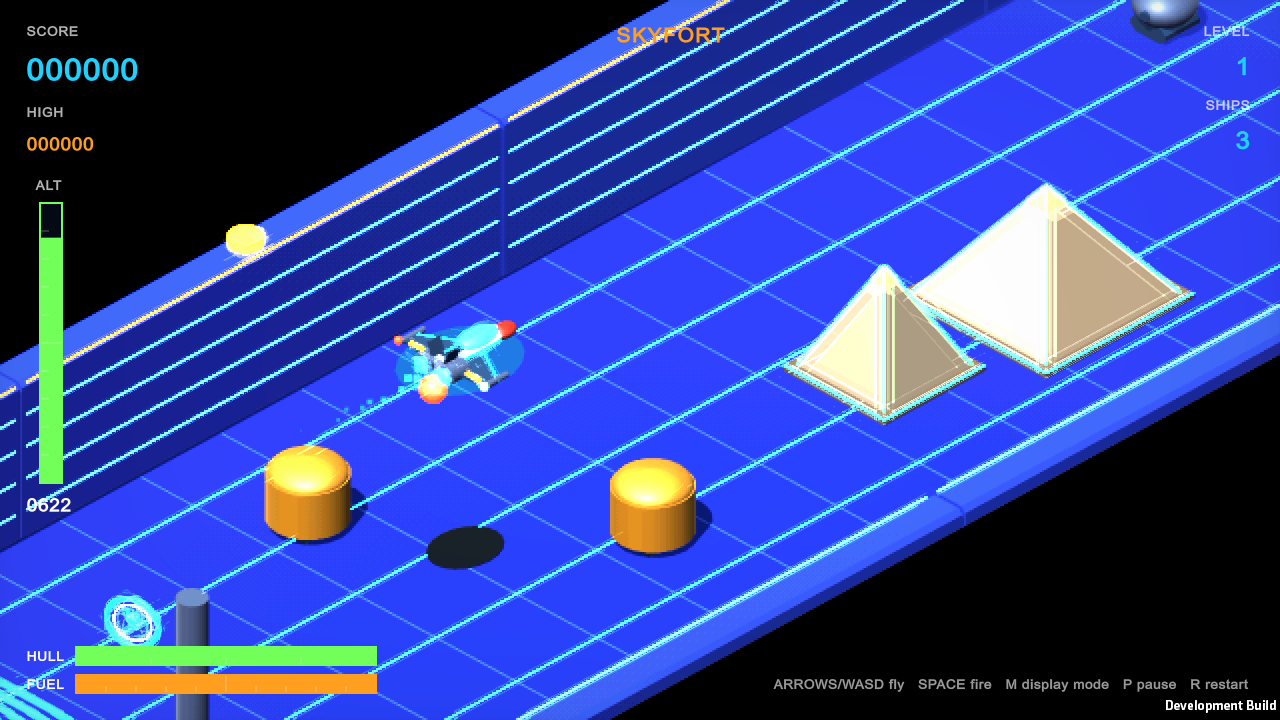
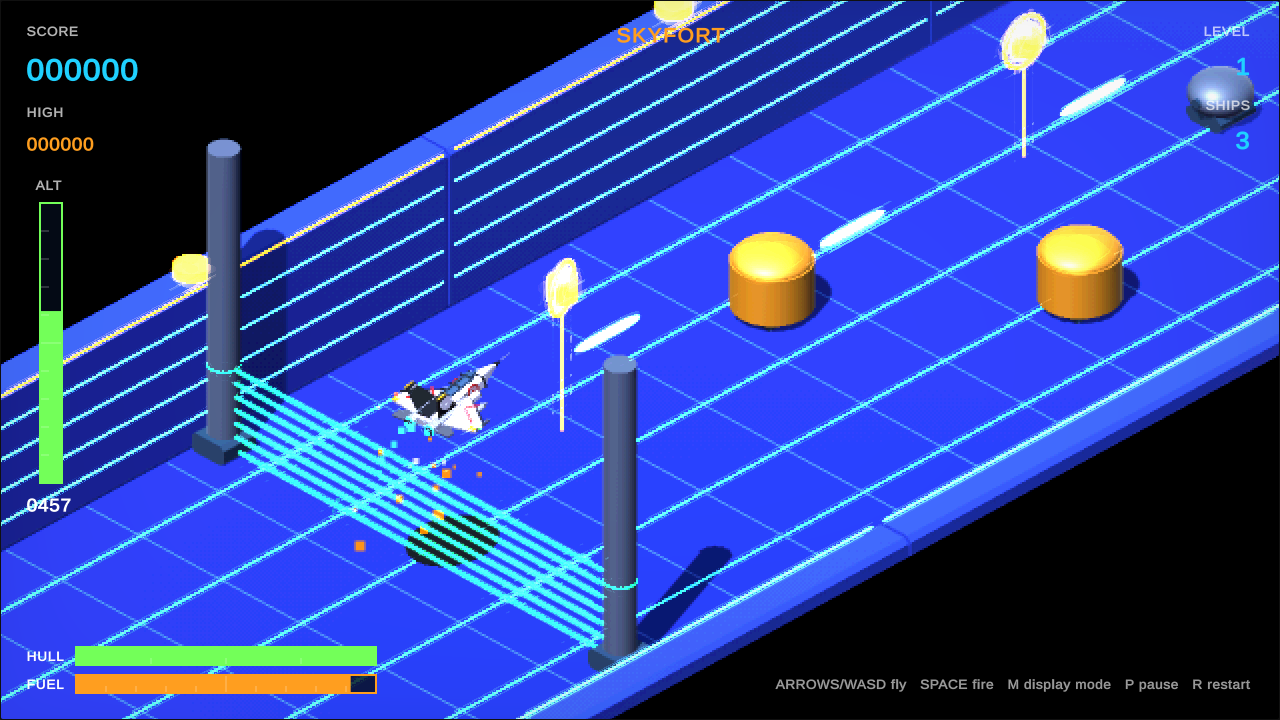
README update

diff --git a/README.md b/README.md
@@ -1,6 +1,6 @@
 # Skyfort Strike — Unity 6 Feature Showcase
 
-![Skyfort Strike: the neon-trimmed fighter over the blue Skyfort deck, with pyramids and fuel tanks ahead](Screenshots/skyfort-16bit.png)
+![Skyfort Strike: the white fighter over the blue Skyfort deck, with turrets, fuel tanks and a power-up with its height marker](Screenshots/gameplay.png)
 
 **Play it in your browser:** https://jcallinan.github.io/Unity6VideoGames/
 
@@ -18,9 +18,15 @@ There are seven levels, each with its own look and obstacle mix. After the seven
 | 6 | **Brick Bulwark**: grey brick ramparts on an electric-cyan floor | Brick walls, keeps and bastions | Scrapyard Orbit |
 | 7 | **Refinery**: an industrial plain of banded fuel tanks | Fuel tanks, stacks, castle walls, force fields | Asteroid Belt |
 
-| Skyfort | Dune Ruins | Ice Citadel |
+Every theme, as seen in the title-screen demo reel:
+
+| 1. Skyfort | 2. Dune Ruins | 3. Ice Citadel | 4. Violet Bastion |
+|---|---|---|---|
+| ![Skyfort: blue deck with cyan neon grid and blue pyramids](Screenshots/theme-skyfort.png) | ![Dune Ruins: a sandstone deck under a burning sky](Screenshots/theme-dune-ruins.png) | ![Ice Citadel: pale ice spires on a frozen plain](Screenshots/theme-ice-citadel.png) | ![Violet Bastion: a violet deck with orange crystal pyramids](Screenshots/theme-violet-bastion.png) |
+
+| 5. Azure Causeway | 6. Brick Bulwark | 7. Refinery |
 |---|---|---|
-| ![Level 1, Skyfort: blue deck with cyan neon grid, pyramids with green neon edges](Screenshots/skyfort-16bit.png) | ![Level 2, Dune Ruins: sandstone deck with cyan neon lanes and glowing pyramids](Screenshots/dune-ruins-16bit.png) | ![Level 3, Ice Citadel: icy deck with crystal spires traced in cyan neon](Screenshots/ice-citadel-16bit.png) |
+| ![Azure Causeway: a royal-blue road lined with golden pillars](Screenshots/theme-azure-causeway.png) | ![Brick Bulwark: grey brick walls on an electric-cyan floor](Screenshots/theme-brick-bulwark.png) | ![Refinery: banded fuel tanks on an industrial blue plain](Screenshots/theme-refinery.png) |
 
 Levels 2 and 3 include a **cockpit run**: in the second half the camera blends from the isometric view into a first-person view from the ship's nose, with a green reticle, then blends back out.
 
@@ -32,9 +38,13 @@ Levels 2 and 3 include a **cockpit run**: in the second half the camera blends f
 | `Assets/Scenes/SkyfortStrike.unity` | The main game (this README's subject). **P**/**Esc** pauses, and **Q** from the pause or game over screen goes back to the title. |
 | `Assets/Scenes/SkyPlatformer.unity` | **Pixel Runner**, a Mario-style platformer (below). **Esc** returns to the title. |
 
+![The title screen: a glitching logo over the autopilot demo reel, with a camera readout and the Start Game and Pixel Runner buttons](Screenshots/title-screen.png)
+
 The whole of Skyfort Strike runs at 90% speed, and power-ups have a generous capture zone, a gentle magnet, and a glowing height marker with a ring on the deck so you can judge their altitude.
 
 ### Pixel Runner (platformer scene)
+
+![Pixel Runner: the side-scrolling section, with coins, a ? block row and a goomba](Screenshots/platformer.png)
 
 World 1-1 changes how you play as you go: **side scroller → first person → side scroller → top down → side scroller → flag**. Run with **A/D** (or arrows), jump with **Space**, **Shift** to run faster; in first person **W/S** walk and **A/D** strafe; top down uses **WASD**. Stomp goombas, bump **?** blocks from below, collect coins and reach the flag. Its level, player, enemies, lights and camera are built in code by `SkyPlatformer` when the scene starts (the scene just holds that one component), and the title scene builds its own world the same way (`SkyfortIntro`), so nothing needs generating in the Editor.
 
@@ -69,11 +79,11 @@ A display filter on the camera (`SkyfortRetroFilter` with `Assets/Shaders/Skyfor
 
 The same stretch of the Skyfort level in each mode:
 
-| 16-BIT (default) | CRT |
-|---|---|
-| ![16-BIT mode: crisp pixels with neon glow](Screenshots/skyfort-16bit.png) | ![CRT mode: scanlines and a gently curved screen](Screenshots/skyfort-crt.png) |
-| **ARCADE** | **MODERN** |
-| ![ARCADE mode: chunkier pixels and fewer colors](Screenshots/skyfort-arcade.png) | ![MODERN mode: no filter, full resolution](Screenshots/skyfort-modern.png) |
+| 16-BIT (default) | CRT | ARCADE |
+|---|---|---|
+| ![16-BIT mode: crisp pixels with neon glow](Screenshots/skyfort-16bit.png) | ![CRT mode: scanlines and a curved screen](Screenshots/skyfort-crt.png) | ![ARCADE mode: chunky pixels, dither and deep scanlines](Screenshots/skyfort-arcade.png) |
+| **ATARI** | **MONO LCD** | **MODERN** |
+| ![ATARI mode: limited flat colors with streaked rows](Screenshots/skyfort-atari.png) | ![MONO LCD mode: a four-shade green handheld look](Screenshots/skyfort-mono.png) | ![MODERN mode: no filter, full resolution](Screenshots/skyfort-modern.png) |
 
 The modes keep edges crisp with just a touch of softness, and only neon-bright light blooms. The HUD is drawn by UI Toolkit on top of the filtered image, so it stays sharp in every mode.
 
